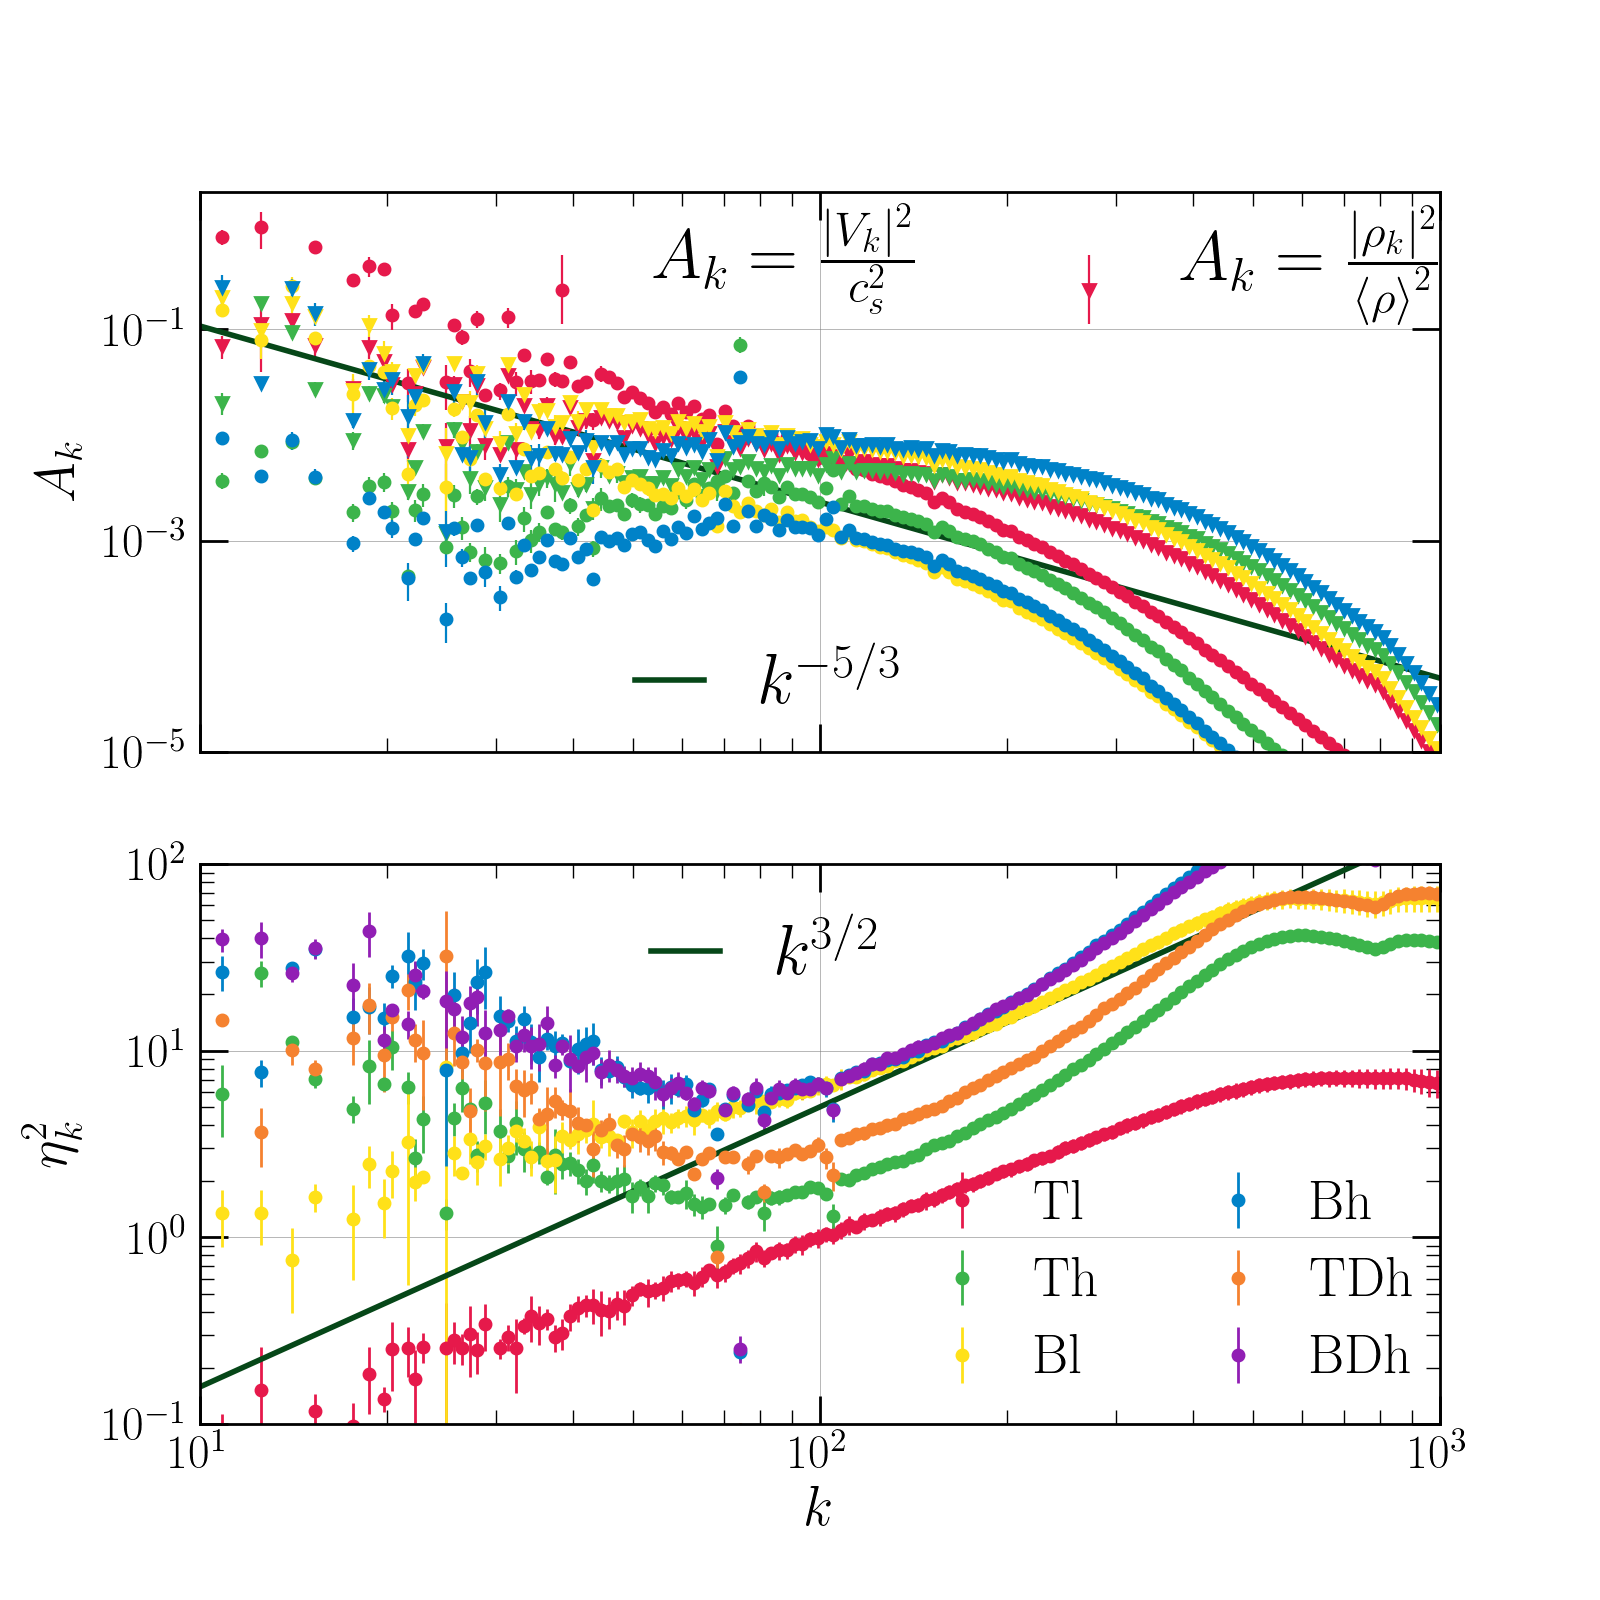
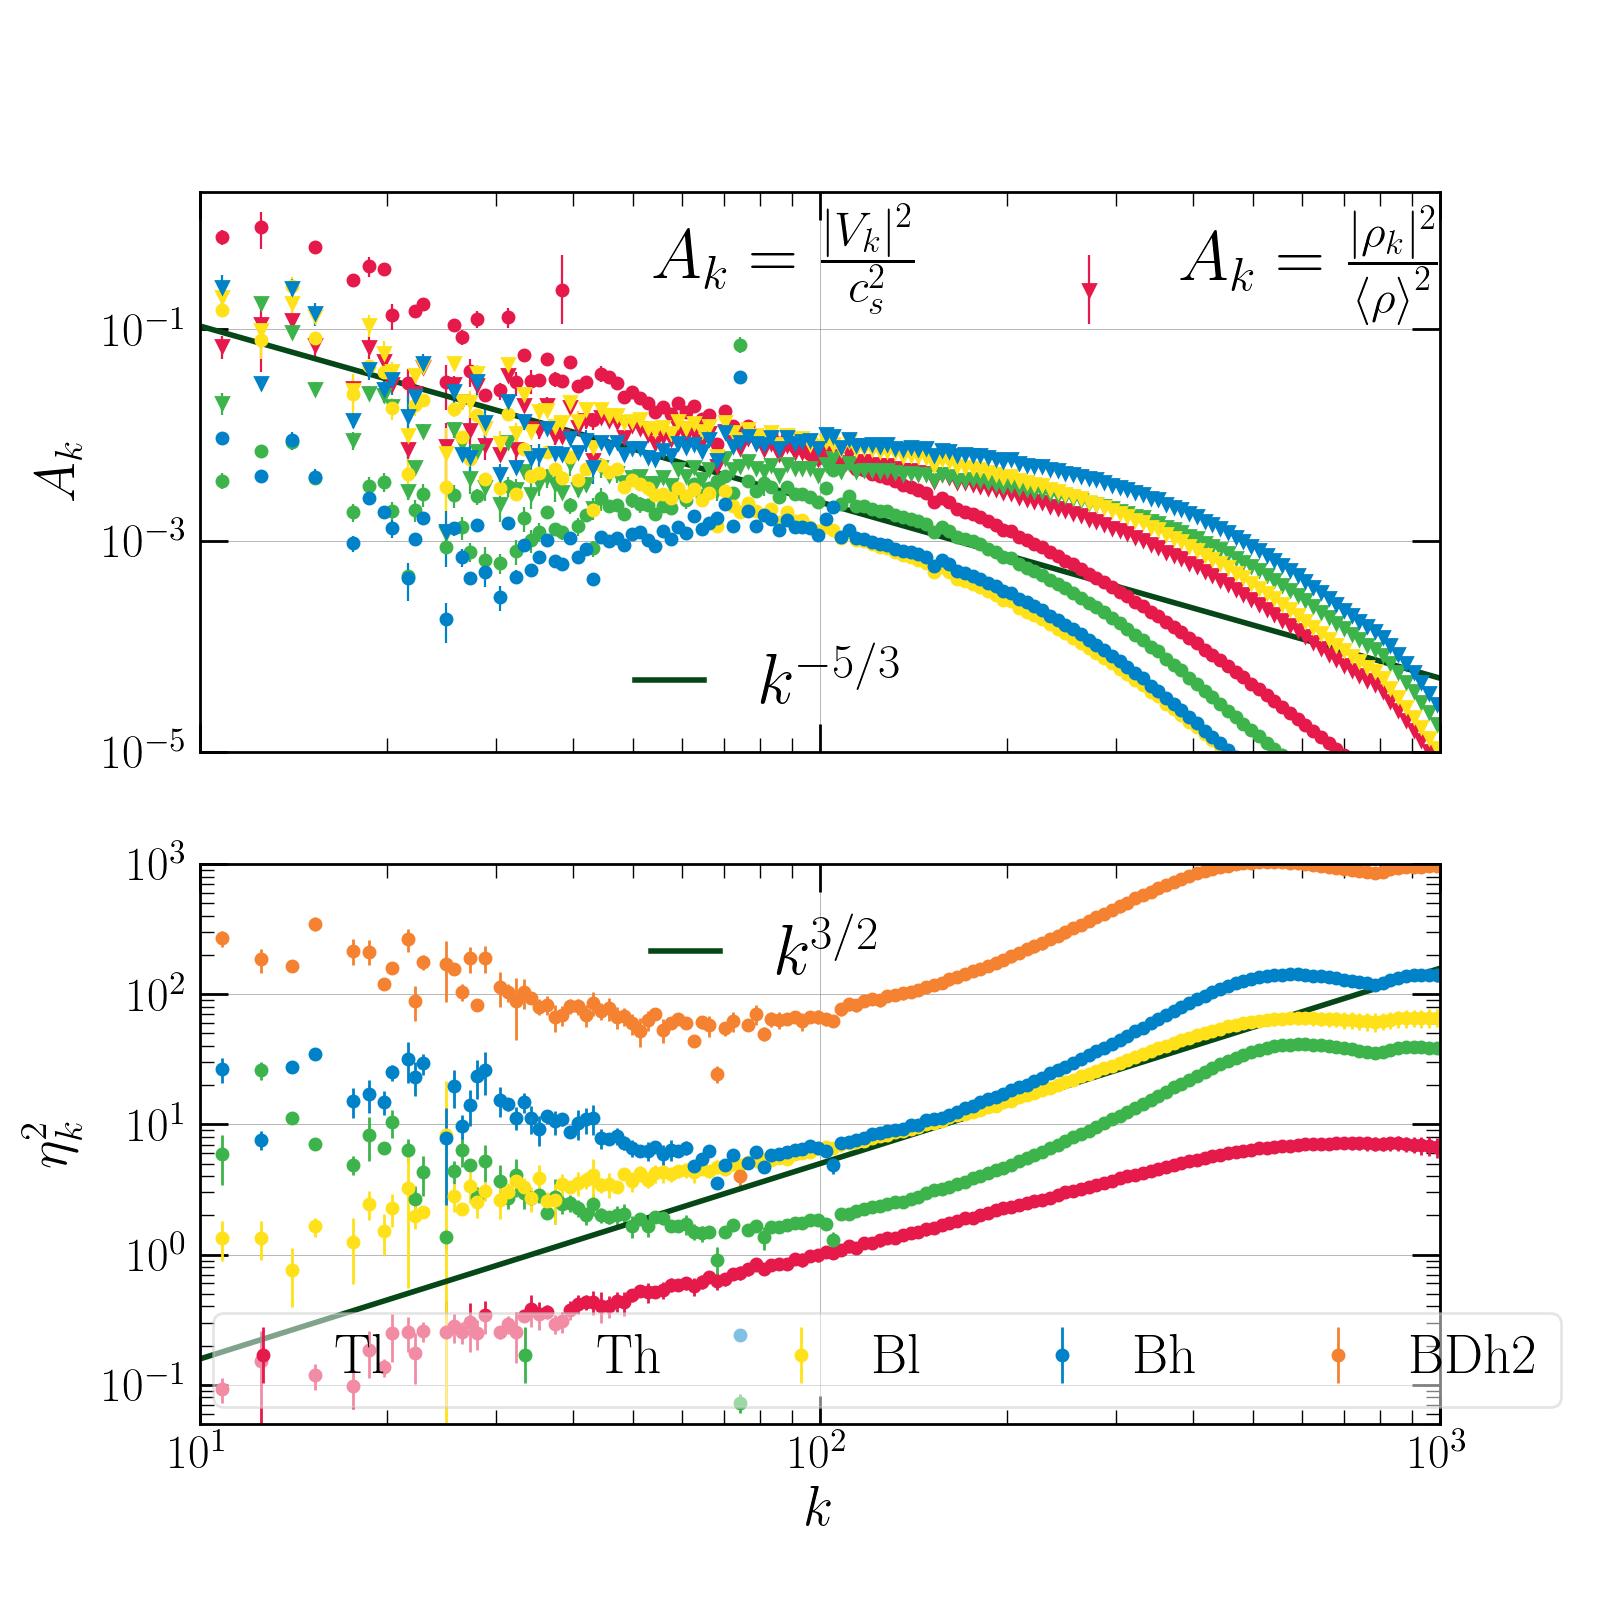
edited plots

diff --git a/All_analysis/rho-vel-spectra-cool.py b/All_analysis/rho-vel-spectra-cool.py
@@ -28,14 +28,14 @@ start_time = time.time()
 fig, (ax1, ax2) = plt.subplots(2, 1, sharex=True)
 fig.set_size_inches(8., 8.)
 
-wdir=('T-runs/Tl/', 'T-runs/Th/', 'B-runs/Bl/', 'B-runs/Bh/', 'T-runs/TDh/', 'B-runs/BDh/')
-labels=('Tl', 'Th', 'Bl', 'Bh', 'TDh', 'BDh')
+wdir=('T-runs/Tl/', 'T-runs/Th/', 'B-runs/Bl/', 'B-runs/Bh/', 'B-runs/BDh2/')
+labels=('Tl', 'Th', 'Bl', 'Bh', 'BDh2')
 gamma=5./3.
 time_step=0.2
 no_bins=200
 no_files=5
 
-start=np.array((10., 51., 10., 42., 40., 15.))
+start=np.array((10., 51., 10., 42., 15.))
 
 colors=((230, 25, 75) , (60, 180, 75), (255, 225, 25), (0, 130, 200), (245, 130, 48), (145, 30, 180), (183, 58, 12), (240, 50, 230), (250, 190, 190), (6, 71, 24))
 colors=np.array(colors)/255.
@@ -126,9 +126,9 @@ ax2.set_yscale('log')
 ax2.set_xscale('log')
 ax2.set_xlabel('$k$', fontsize=20)
 ax2.set_ylabel('$\eta_k^2$', fontsize=20)
-ax2.set_ylim(1e-1,1.e2)
+ax2.set_ylim(5e-2,1.e3)
 ax2.set_xlim(1.e1,1e3)
-ratio_legend=ax2.legend(loc='lower right',  ncol=2, fancybox=True, bbox_to_anchor=(1.02, -0.02), fontsize=20)
+ratio_legend=ax2.legend(loc='lower right',  ncol=5, fancybox=True, bbox_to_anchor=(1.12, -0.02), frameon=True, framealpha=0.5, fontsize=20)
 ax2.add_artist(ratio_legend)
 fit, =ax2.plot(x, 5.e-3*x**(3./2.), label=r'$k^{3/2}$', marker="d", markeredgecolor='none', markersize=0.5, linewidth=2.0, color=colors[9])
 ax2.legend(handles=[fit], loc='upper right', bbox_to_anchor=(.6, 1.0), ncol=1, fancybox=True, framealpha=0., fontsize=25.)

diff --git a/All_analysis/rho-prs-spectra-cool.py b/All_analysis/rho-prs-spectra-cool.py
@@ -34,9 +34,9 @@ time_step=0.2
 no_bins=200
 no_files=5
 
-start=np.array((10., 51., 10., 42., 40., 15.))
-wdir=('T-runs/Tl/', 'T-runs/Th/', 'B-runs/Bl/', 'B-runs/Bh/', 'T-runs/TDh/', 'B-runs/BDh/')
-labels=('Tl', 'Th', 'Bl', 'Bh', 'TDh', 'BDh')
+start=np.array((10., 51., 10., 42., 15.))
+wdir=('T-runs/Tl/', 'T-runs/Th/', 'B-runs/Bl/', 'B-runs/Bh/', 'B-runs/BDh2/')
+labels=('Tl', 'Th', 'Bl', 'Bh', 'BDh2')
 
 colors=((230, 25, 75) , (60, 180, 75), (255, 225, 25), (0, 130, 200), (245, 130, 48), (145, 30, 180), (183, 58, 12), (240, 50, 230), (250, 190, 190), (6, 71, 24))
 colors=np.array(colors)/255.
@@ -123,7 +123,7 @@ ax2.set_ylabel(r'$R_k$', fontsize=20)
 ax2.set_ylim(1.e-3,3.)
 ax2.set_xlim(1.e1,1e3)
 
-ratio_legend=ax2.legend(handles=ratio_spectra, loc='lower left', bbox_to_anchor=(-0.02, -0.08), ncol=3, fancybox=True, framealpha=0., fontsize=20.)
+ratio_legend=ax2.legend(handles=ratio_spectra, loc='lower left', bbox_to_anchor=(-0.02, -0.08), ncol=5, fancybox=True, frameon=True, framealpha=0.5, fontsize=20.)
 ax2.add_artist(ratio_legend)
 #ax2.legend(handles=[fit], loc='upper right', bbox_to_anchor=(.8, 1.0), ncol=1, fancybox=True, framealpha=0., fontsize=25.)
 
